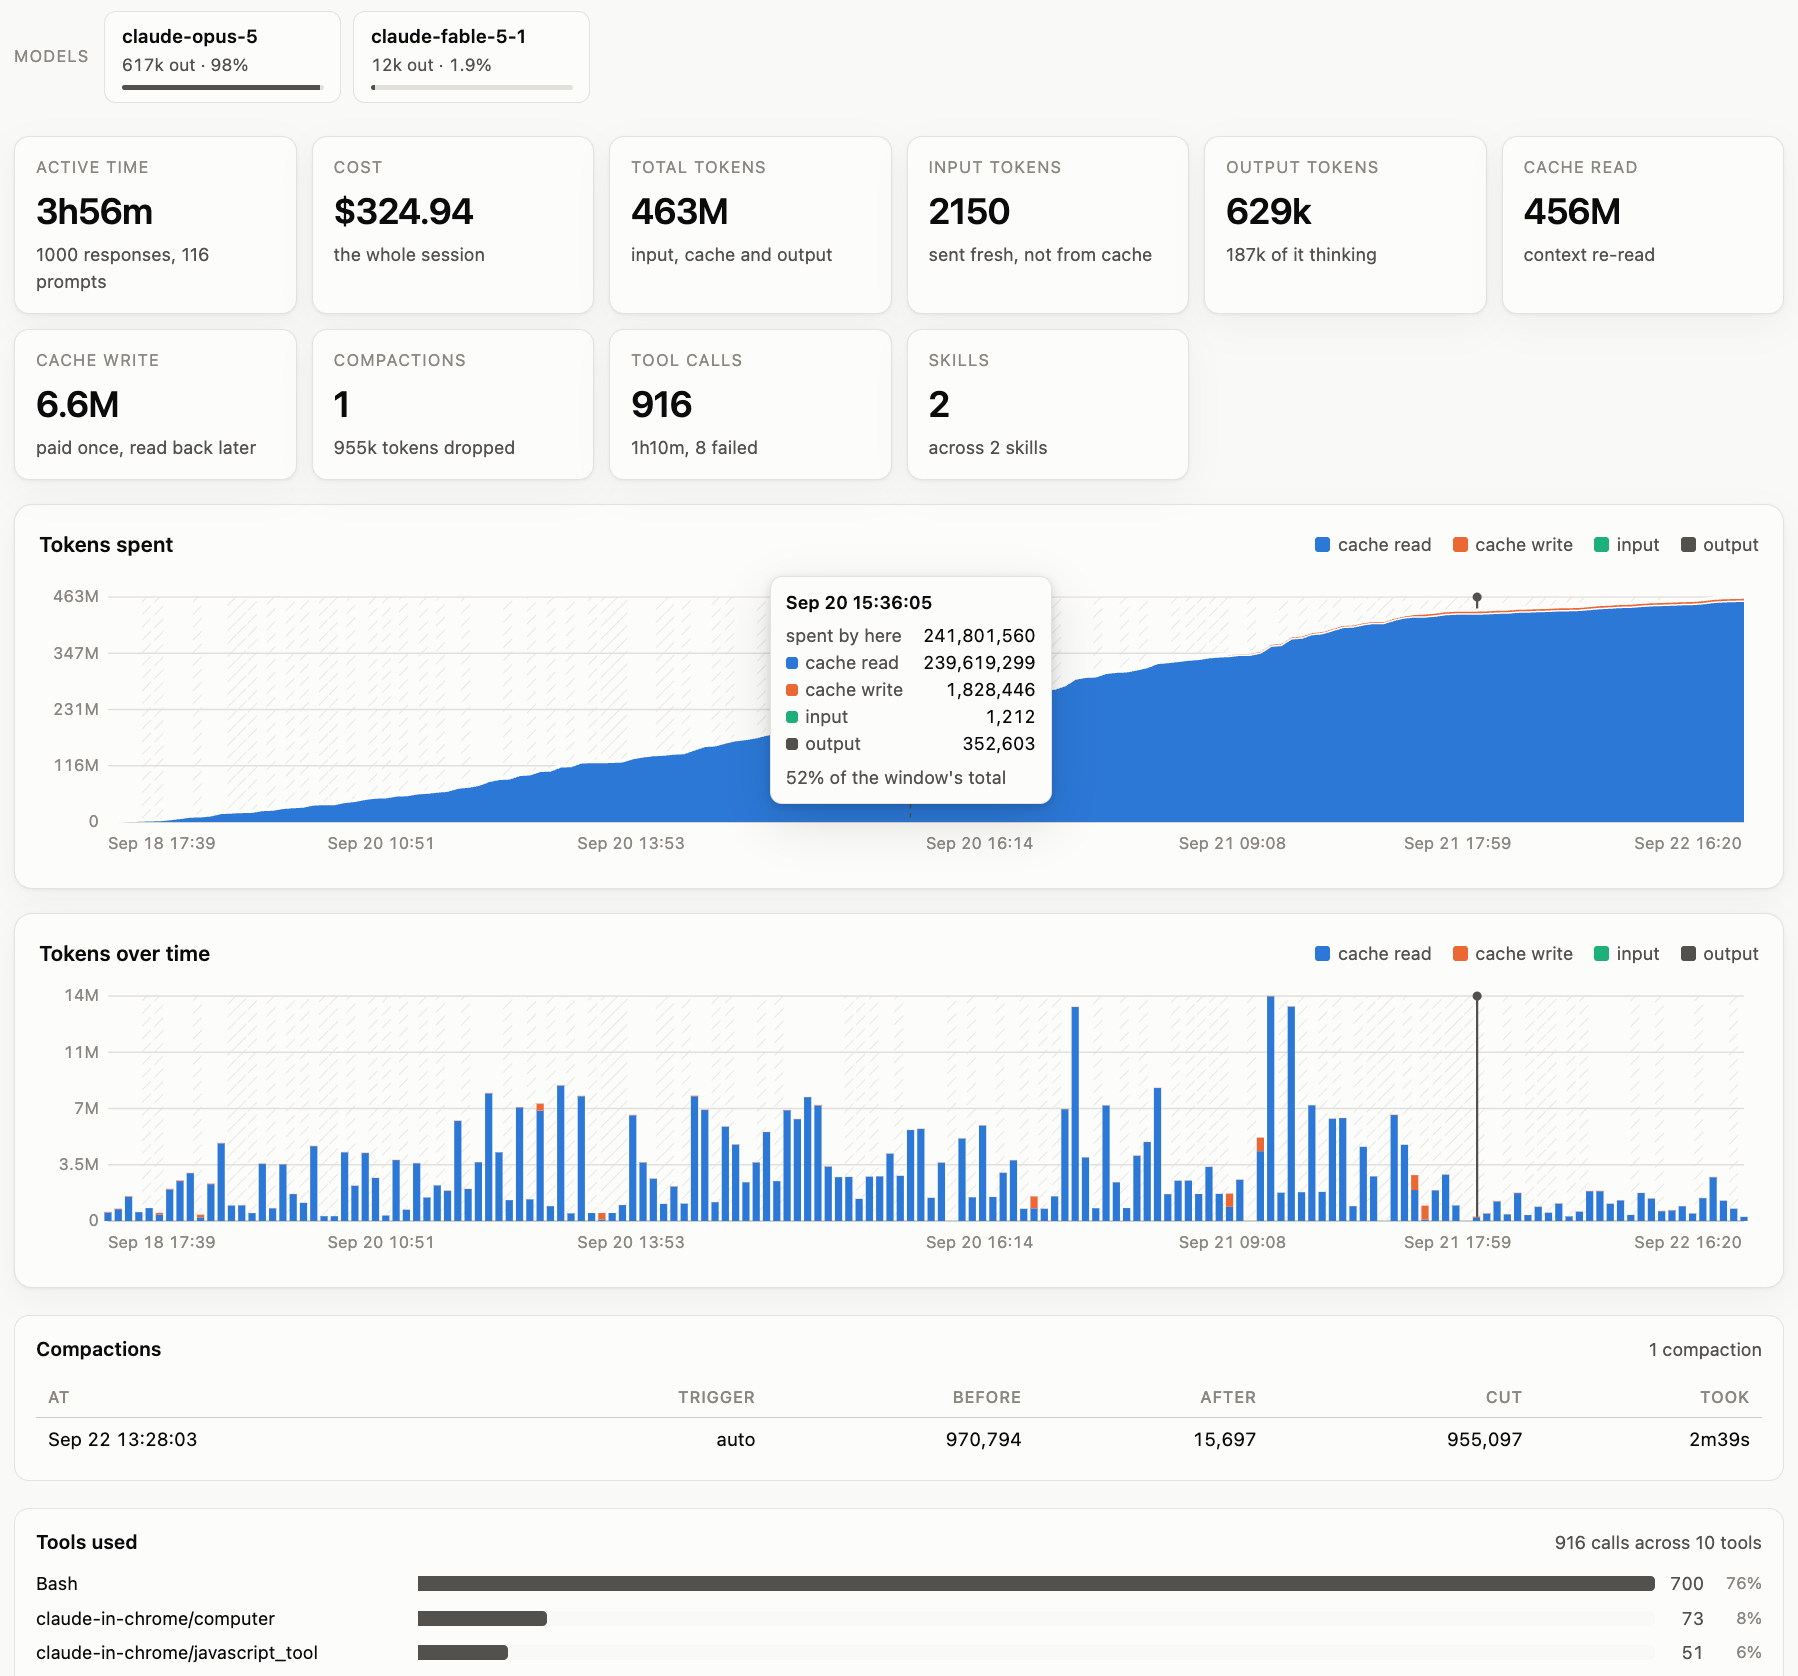
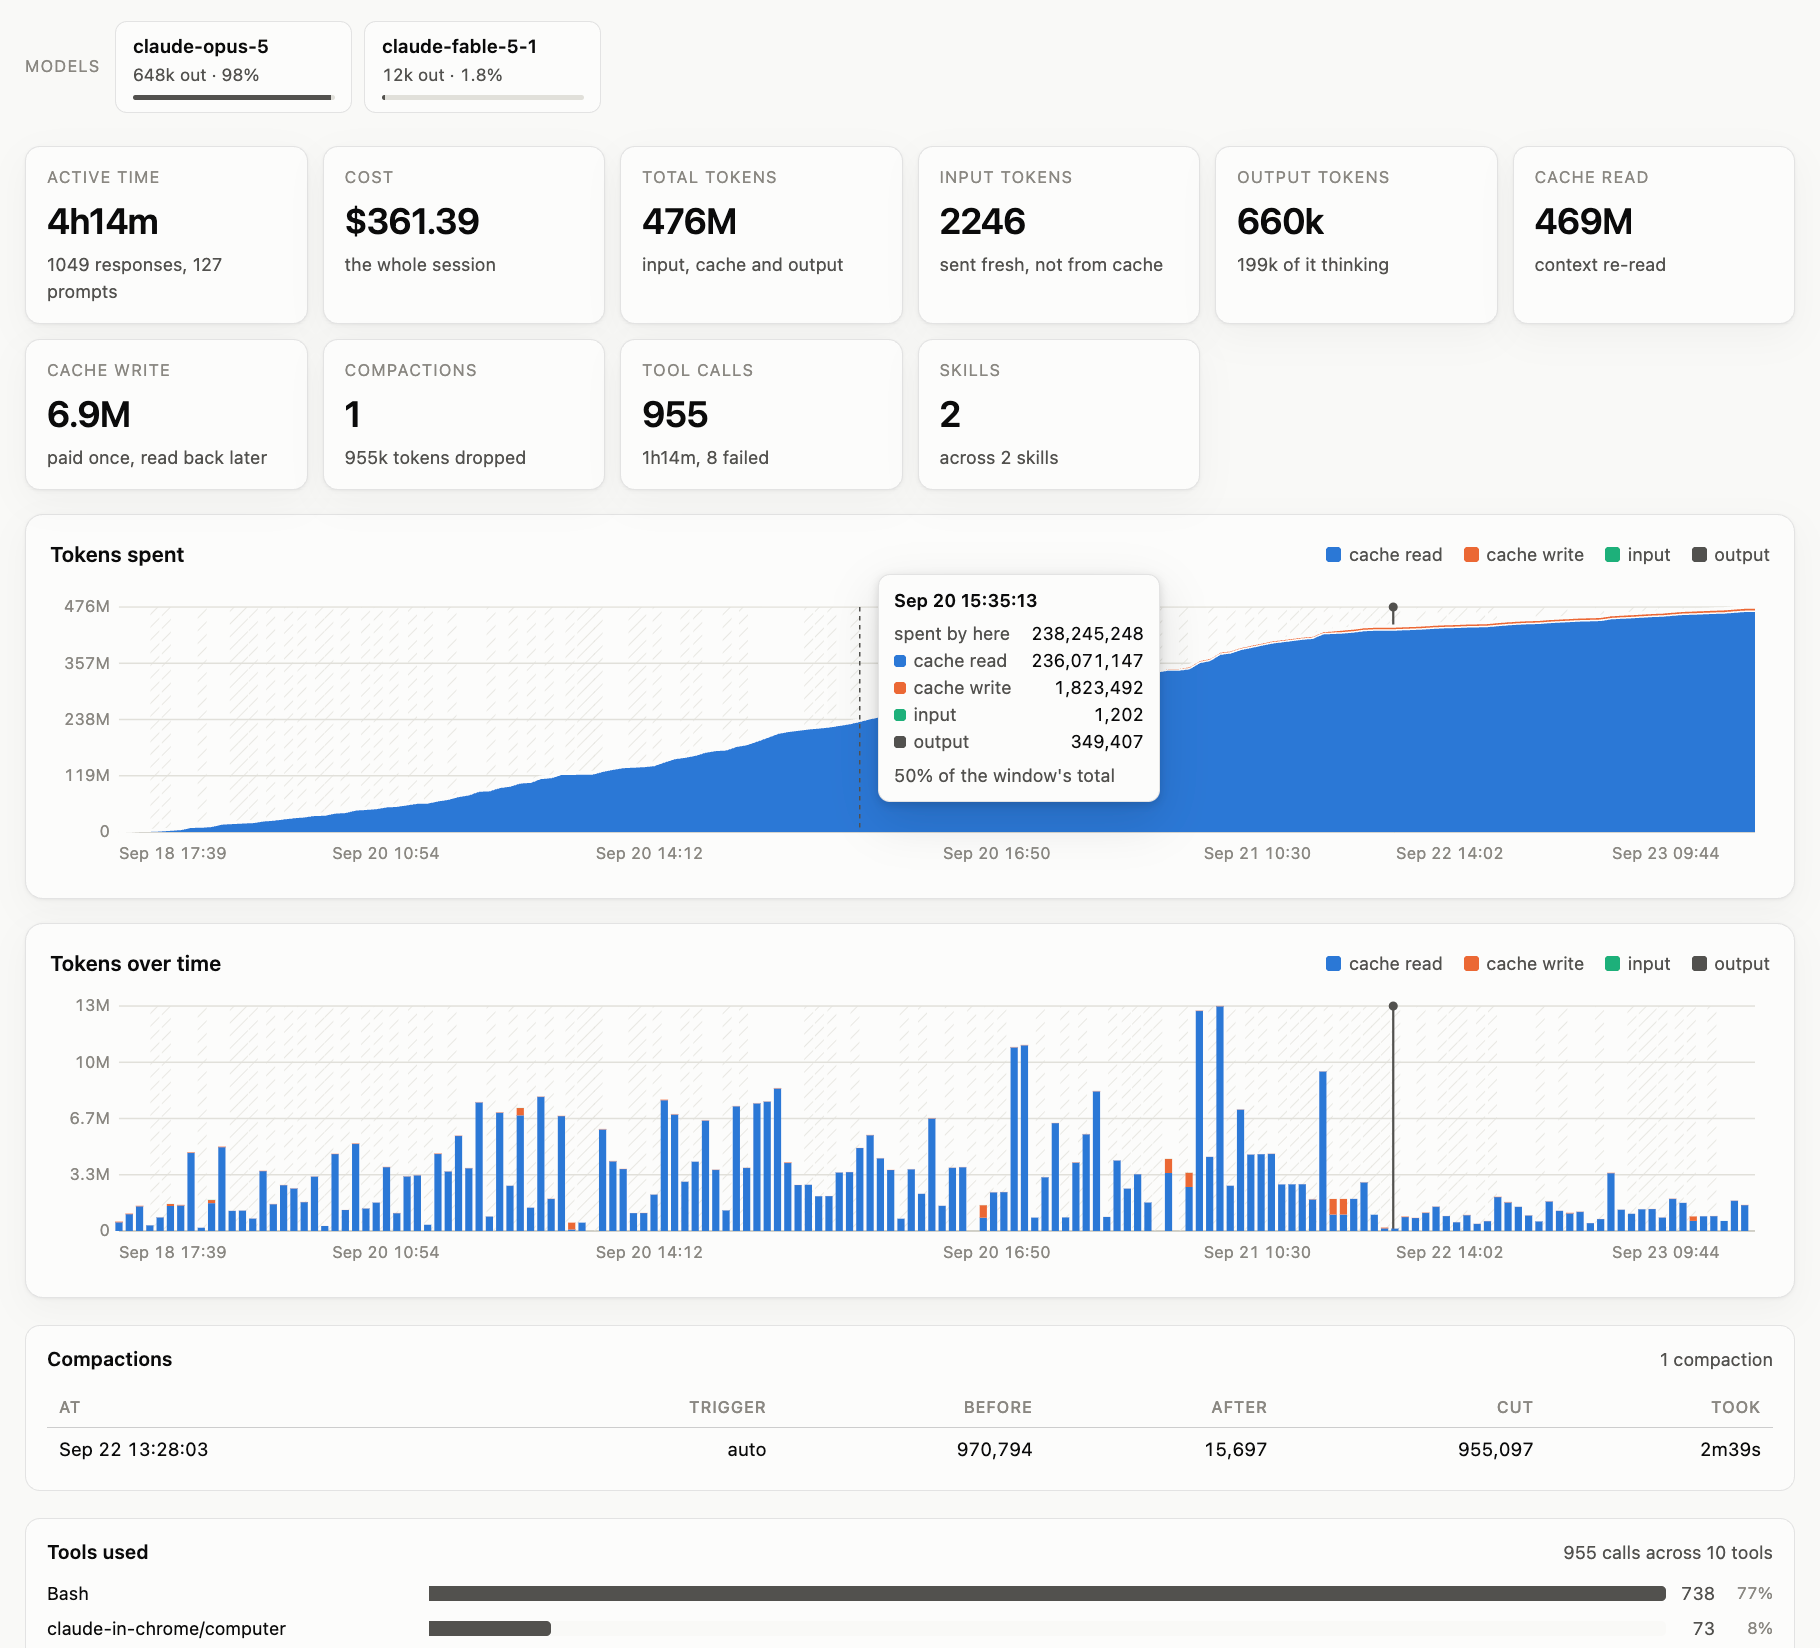
fix: count only typed messages as prompts, and only API replies as responses (#14)
* fix: count only typed messages as prompts, and only API replies as responses

The Active time tile says "N responses, M prompts", and both were high.

Prompts counted every user-role entry with text, and Claude Code writes
its own entries as user, most as a bare string exactly like a typed
turn. Across 103 sessions on the survey machine that was 3,171 prompts
against 1,015 typed. Task notifications alone were 1,063. The rest: slash
commands with either tag first and what they printed, `!` commands and
their output, meta entries in string form, editor context, and the
interruption marker, plus a message typed as several blocks counting
once per block. One session went from 1,903 to 124, most of it a /loop
firing and task notifications.

typedByUser tells them apart by the surveyed wrappers. A slash command
is not a prompt even when it expands into one: the expansion is a meta
entry of its own, in all 424 surveyed cases. The entries the CLI wrote
become notes rather than nothing, so their timestamps stay on the clock
and nothing but the count changes.

Responses counted "<synthetic>" messages: an API error, a timeout,
"Prompt is too long", which the CLI writes itself with a message id and
a zeroed usage object. 50 on the survey machine, 16,377 responses
becoming 16,327. isResponse now answers for the parser and Scan both, so
the listing and the session page cannot drift apart on it.

AGENTS.md gets a bullet for each.

* docs: refresh the README screenshot

---------

diff --git a/internal/reader/claudecode/claudecode.go b/internal/reader/claudecode/claudecode.go
@@ -260,7 +260,7 @@ func (p *parser) assistant(seq int, e *entry) {
 	// Usage belongs to the response, not to the block, and Claude Code repeats
 	// it on every block of the same response.
 	var u *event.Usage
-	if e.Message.Usage != nil && e.Message.ID != "" && !p.seenMsg[e.Message.ID] {
+	if isResponse(e) && !p.seenMsg[e.Message.ID] {
 		p.seenMsg[e.Message.ID] = true
 		w := e.Message.Usage
 		u = &event.Usage{
@@ -328,16 +328,15 @@ func (p *parser) user(seq int, e *entry) {
 		return
 	}
 
-	// A plain string content is a human turn. Everything else is the tool
-	// plumbing the CLI models as user-role messages.
+	// A plain string content is usually a human turn, but the CLI writes its
+	// own entries the same way; typedByUser tells them apart.
 	var text string
 	if err := json.Unmarshal(e.Message.Content, &text); err == nil {
-		st := p.base(seq, e, event.KindPrompt)
-		st.Text = textfmt.Clip(text, p.opt.PreviewRunes)
-		p.run.Steps = append(p.run.Steps, st)
+		p.userText(seq, e, text, !e.IsMeta && typedByUser(text))
 		return
 	}
 
+	prompted := false
 	for _, b := range decodeBlocks(e.Message.Content) {
 		switch b.Type {
 		case "tool_result":
@@ -348,11 +347,78 @@ func (p *parser) user(seq int, e *entry) {
 			if e.IsMeta || e.SourceToolUseID != "" {
 				continue
 			}
-			st := p.base(seq, e, event.KindPrompt)
-			st.Text = textfmt.Clip(b.Text, p.opt.PreviewRunes)
-			p.run.Steps = append(p.run.Steps, st)
+			typed := typedByUser(b.Text)
+			if typed && prompted {
+				continue // one message sent is one prompt, however many blocks carry it
+			}
+			p.userText(seq, e, b.Text, typed)
+			prompted = prompted || typed
 		}
 	}
+}
+
+// userText records a user-role text as a prompt when somebody typed it and as
+// a note when the CLI wrote it. The note keeps the entry's timestamp on the
+// clock: the CLI did write it then, and a run whose last entry is a task
+// notification did not end before it.
+func (p *parser) userText(seq int, e *entry, text string, typed bool) {
+	kind := event.KindNote
+	if typed {
+		kind = event.KindPrompt
+	}
+	st := p.base(seq, e, kind)
+	st.Text = textfmt.Clip(text, p.opt.PreviewRunes)
+	p.run.Steps = append(p.run.Steps, st)
+}
+
+// cliWrappers open the user-role entries Claude Code writes itself: a slash
+// command (either tag first) and what it printed, a `!` shell command and its
+// output, a background task finishing, context an editor attached. They reach
+// the transcript as prompts would, most as a bare string, and none of them is
+// one. On the survey machine task notifications alone (1,063) outnumbered the
+// prompts people typed (1,001). A slash command is not a prompt even when it
+// expands into one: the expansion is written as a separate meta entry.
+//
+// The list is what was surveyed. A wrapper a later release adds counts as a
+// prompt until it is added here.
+var cliWrappers = []string{
+	"<command-name>", "<command-message>",
+	"<local-command-stdout>", "<local-command-caveat>",
+	"<bash-input>", "<bash-stdout>",
+	"<task-notification>", "<system-reminder>",
+	"<ide_opened_file>",
+}
+
+// interrupted opens the marker the CLI writes when somebody stops a response,
+// as "[Request interrupted by user]" or "… for tool use]". Pressing Esc is not
+// a prompt.
+const interrupted = "[Request interrupted by user"
+
+func typedByUser(text string) bool {
+	t := strings.TrimSpace(text)
+	if strings.HasPrefix(t, interrupted) {
+		return false
+	}
+	for _, w := range cliWrappers {
+		if strings.HasPrefix(t, w) {
+			return false
+		}
+	}
+	return true
+}
+
+// syntheticModel is the model Claude Code names on a message it wrote itself
+// rather than received from the API, with every usage field zero: an API
+// error, a timeout, "Prompt is too long", "No response requested.". 50 on the
+// survey machine, each with a message id and a usage object.
+const syntheticModel = "<synthetic>"
+
+// isResponse reports whether an assistant entry carries an API response's
+// usage. A synthetic message has a usage object and is not a response, so it
+// counts as none; Scan asks the same question, and the two must agree.
+func isResponse(e *entry) bool {
+	m := e.Message
+	return m != nil && m.Usage != nil && m.ID != "" && m.Model != syntheticModel
 }
 
 // pairResult closes the tool call a result belongs to. The pairing is by id

diff --git a/internal/reader/claudecode/claudecode_test.go b/internal/reader/claudecode/claudecode_test.go
@@ -277,22 +277,50 @@ func TestCostStateLastSnapshotWins(t *testing.T) {
 	}
 }
 
-// A human turn is a string content. Tool plumbing and meta notices are also
-// user-role entries and are not prompts.
+// A prompt is a message somebody typed. Tool plumbing, meta notices, slash and
+// shell commands, task notifications and interruption markers are user-role
+// entries too, most of them a bare string exactly like a typed turn, and none
+// is a prompt. The shapes are the surveyed ones.
 func TestOnlyRealTurnsCountAsPrompts(t *testing.T) {
 	run := read(t,
 		`{"type":"user","uuid":"u1","timestamp":"2026-09-18T10:00:00.000Z","message":{"role":"user","content":"do the thing"}}`,
 		`{"type":"user","uuid":"u2","timestamp":"2026-09-18T10:00:01.000Z","isMeta":true,"message":{"role":"user","content":[{"type":"text","text":"system reminder"}]}}`,
 		`{"type":"user","uuid":"u3","timestamp":"2026-09-18T10:00:02.000Z","sourceToolUseID":"tu_1","message":{"role":"user","content":[{"type":"text","text":"tool companion"}]}}`,
+		// A slash command, with either tag first, and what it printed.
+		`{"type":"user","uuid":"u4","timestamp":"2026-09-18T10:00:03.000Z","message":{"role":"user","content":"<command-name>/model</command-name>\n            <command-message>model</command-message>\n            <command-args></command-args>"}}`,
+		`{"type":"user","uuid":"u5","timestamp":"2026-09-18T10:00:04.000Z","message":{"role":"user","content":"<local-command-stdout>Set model to Opus</local-command-stdout>"}}`,
+		`{"type":"user","uuid":"u6","timestamp":"2026-09-18T10:00:05.000Z","isMeta":true,"message":{"role":"user","content":"<local-command-caveat>Caveat: The messages below were generated by the user while running local commands.</local-command-caveat>"}}`,
+		`{"type":"user","uuid":"u7","timestamp":"2026-09-18T10:00:06.000Z","message":{"role":"user","content":"<command-message>loop</command-message>\n<command-name>/loop</command-name>\n<command-args>5m check the build</command-args>"}}`,
+		// A ! shell command and its output.
+		`{"type":"user","uuid":"u8","timestamp":"2026-09-18T10:00:07.000Z","message":{"role":"user","content":"<bash-input>pwd</bash-input>"}}`,
+		`{"type":"user","uuid":"u9","timestamp":"2026-09-18T10:00:08.000Z","message":{"role":"user","content":"<bash-stdout>/tmp</bash-stdout><bash-stderr></bash-stderr>"}}`,
+		`{"type":"user","uuid":"u10","timestamp":"2026-09-18T10:00:09.000Z","message":{"role":"user","content":"<task-notification>\n<task-id>b1</task-id>\n<status>completed</status>\n</task-notification>"}}`,
+		`{"type":"user","uuid":"u11","timestamp":"2026-09-18T10:00:10.000Z","isMeta":true,"message":{"role":"user","content":"[Image: original 2880x1620, displayed at 2000x1125.]"}}`,
+		`{"type":"user","uuid":"u12","timestamp":"2026-09-18T10:00:11.000Z","message":{"role":"user","content":[{"type":"text","text":"[Request interrupted by user for tool use]"}]}}`,
+		// Editor context beside what was typed, and a message typed as two
+		// blocks: one entry, one prompt.
+		`{"type":"user","uuid":"u13","timestamp":"2026-09-18T10:00:12.000Z","message":{"role":"user","content":[{"type":"text","text":"<ide_opened_file>The user opened the file /tmp/a.go in the IDE.</ide_opened_file>"},{"type":"text","text":"fix this"},{"type":"text","text":"and that"}]}}`,
 	)
-	var prompts int
+	var prompts []string
+	var notes int
 	for i := range run.Steps {
-		if run.Steps[i].Kind == event.KindPrompt {
-			prompts++
+		st := &run.Steps[i]
+		switch st.Kind {
+		case event.KindPrompt:
+			prompts = append(prompts, st.Text)
+		case event.KindNote:
+			notes++
+			// Not a prompt, but the CLI did write it then: it stays on the clock.
+			if !st.HasTime {
+				t.Errorf("note %q lost its timestamp", st.Text)
+			}
 		}
 	}
-	if prompts != 1 {
-		t.Fatalf("counted %d prompts, want 1", prompts)
+	if len(prompts) != 2 || prompts[0] != "do the thing" || prompts[1] != "fix this" {
+		t.Errorf("prompts %q, want the two typed messages", prompts)
+	}
+	if notes != 10 {
+		t.Errorf("%d notes, want 10: u4 to u12 and u13's editor context", notes)
 	}
 }
 

diff --git a/internal/reader/claudecode/title_test.go b/internal/reader/claudecode/title_test.go
@@ -111,6 +111,40 @@ func TestScanAgreesWithTheFullParser(t *testing.T) {
 	}
 }
 
+// A synthetic message is one the CLI wrote itself, an API error or a timeout,
+// with a message id and a zeroed usage object. It is not a response, and the
+// listing and the session page have to agree on that or the two counts drift.
+func TestSyntheticMessageIsNotAResponse(t *testing.T) {
+	synthetic := `{"type":"assistant","uuid":"a9","timestamp":"2026-09-18T10:00:05.000Z","message":{"id":"syn-1","model":"<synthetic>","role":"assistant","content":[{"type":"text","text":"Request timed out"}],"usage":{"input_tokens":0,"cache_creation_input_tokens":0,"cache_read_input_tokens":0,"output_tokens":0}}}`
+	body := oneResponse + "\n" + synthetic + "\n"
+
+	path := t.TempDir() + "/s.jsonl"
+	if err := writeFile(path, body); err != nil {
+		t.Fatal(err)
+	}
+	got, err := Scan(path)
+	if err != nil {
+		t.Fatal(err)
+	}
+	if got.Responses != 1 {
+		t.Errorf("scan counted %d responses, want 1", got.Responses)
+	}
+
+	run, err := ReadFile(path, Options{})
+	if err != nil {
+		t.Fatal(err)
+	}
+	var responses int
+	for i := range run.Steps {
+		if run.Steps[i].Usage != nil {
+			responses++
+		}
+	}
+	if responses != 1 {
+		t.Errorf("full parse counted %d responses, want 1", responses)
+	}
+}
+
 // A listing shows the working directory in its own column, so Title does not
 // fall back to it: a derived label must not look like one the CLI wrote.
 func TestSessionTitleDoesNotInventOne(t *testing.T) {

diff --git a/internal/event/event.go b/internal/event/event.go
@@ -85,10 +85,13 @@ type Surface struct {
 type StepKind string
 
 const (
-	KindPrompt    StepKind = "prompt"    // a human turn
+	KindPrompt    StepKind = "prompt"    // a message somebody typed to the model
 	KindAssistant StepKind = "assistant" // model output: text or thinking
 	KindTool      StepKind = "tool"      // one tool call and its result
-	KindNote      StepKind = "note"      // turn boundaries, local commands, hooks
+	// KindNote is everything else the CLI wrote on the clock: turn boundaries,
+	// hooks, slash and shell commands, task notifications. Some of it arrives
+	// user-role, shaped like a prompt, and is not one.
+	KindNote StepKind = "note"
 )
 
 // Step is one thing that happened, in transcript order.

diff --git a/internal/reader/claudecode/scan.go b/internal/reader/claudecode/scan.go
@@ -143,7 +143,8 @@ func scanLine(s string, out *Totals, seenMsg, seenUse map[string]bool) {
 		}
 		// The same usage object is repeated on every content block of a
 		// response, so it is counted once per message.id.
-		if u := e.Message.Usage; u != nil && e.Message.ID != "" && !seenMsg[e.Message.ID] {
+		if isResponse(&e) && !seenMsg[e.Message.ID] {
+			u := e.Message.Usage
 			seenMsg[e.Message.ID] = true
 			out.Responses++
 			out.Tokens.Input += u.InputTokens

diff --git a/AGENTS.md b/AGENTS.md
@@ -92,6 +92,23 @@ Code that ignores one produces a timeline that looks right and is wrong.
   complained about; only a malformed entry of a modelled type is worth a
   complaint.
 
+- **A user-role entry is not a prompt until it says so.** Claude Code writes
+  its own entries as `user`, most as a bare string exactly like a typed turn:
+  task notifications (1,063 on the survey machine, against 1,001 prompts people
+  typed), slash commands with either tag first and what they printed, `!`
+  commands and their output, editor context, the interruption marker.
+  `cliWrappers` lists the surveyed ones; a wrapper a release adds counts as a
+  prompt until it is listed. They become notes rather than nothing, so the
+  clock keeps their timestamps. A slash command is not a prompt even when it
+  expands into one: the expansion is a meta entry of its own. One entry is at
+  most one prompt, whatever blocks carry it.
+
+- **A synthetic message is not a response.** `"model":"<synthetic>"` marks one
+  the CLI wrote itself — an API error, a timeout, "Prompt is too long" — with
+  a message id and a zeroed usage object, 50 of them on the survey machine. It
+  carries no usage in the event model, so nothing counts it as a response.
+  `isResponse` is the one test, shared by the parser and `Scan`.
+
 - **A skill's name is in the call, not in the tool name.** A skill invocation
   is a `Skill` tool call whose arguments carry the name, so counting by tool
   name reports "Skill ×20" and never says which.
